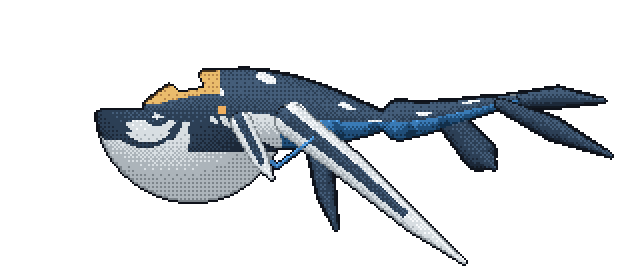
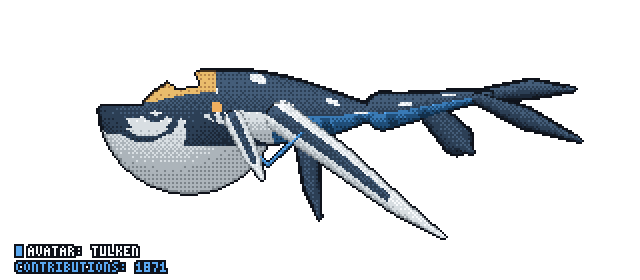
chore: update Tulkun assets and use git-tulkun@main in workflow

Changed region(s): [[0.125, 0.2286, 0.9688, 0.9429], [0.0, 0.8571, 0.2812, 1.0]]

diff --git a/tulkun/preview.html b/tulkun/preview.html
@@ -16,7 +16,7 @@
 </style>
 </head>
 <body>
-<header class="dark"><h1>@PramudithaN — Adult Male Bull (Hooked Hammer-Crest) (1863 commits)</h1></header>
+<header class="dark"><h1>@PramudithaN — Adult Male Bull (Hooked Hammer-Crest) (1871 commits)</h1></header>
 <section class="dark">
 <h2>GitHub Dark Mode</h2>
 <div class="images">
